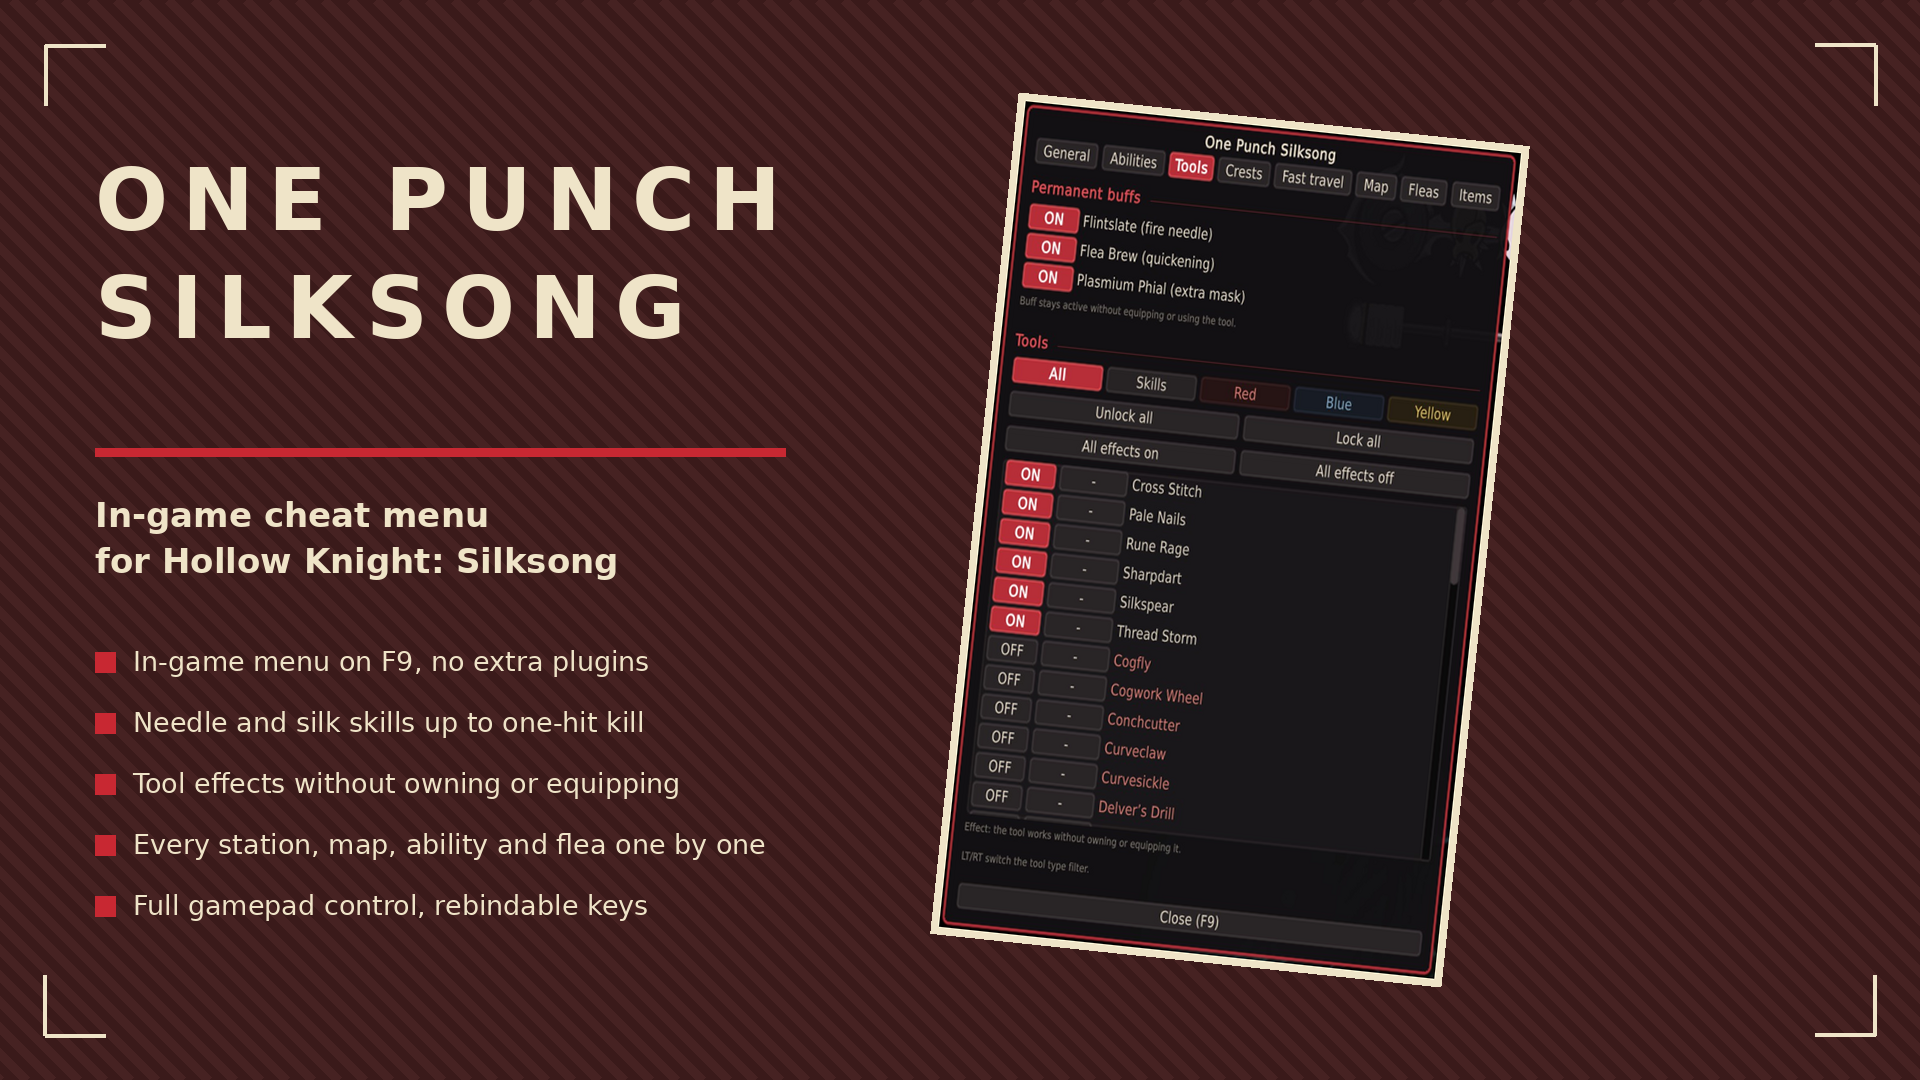
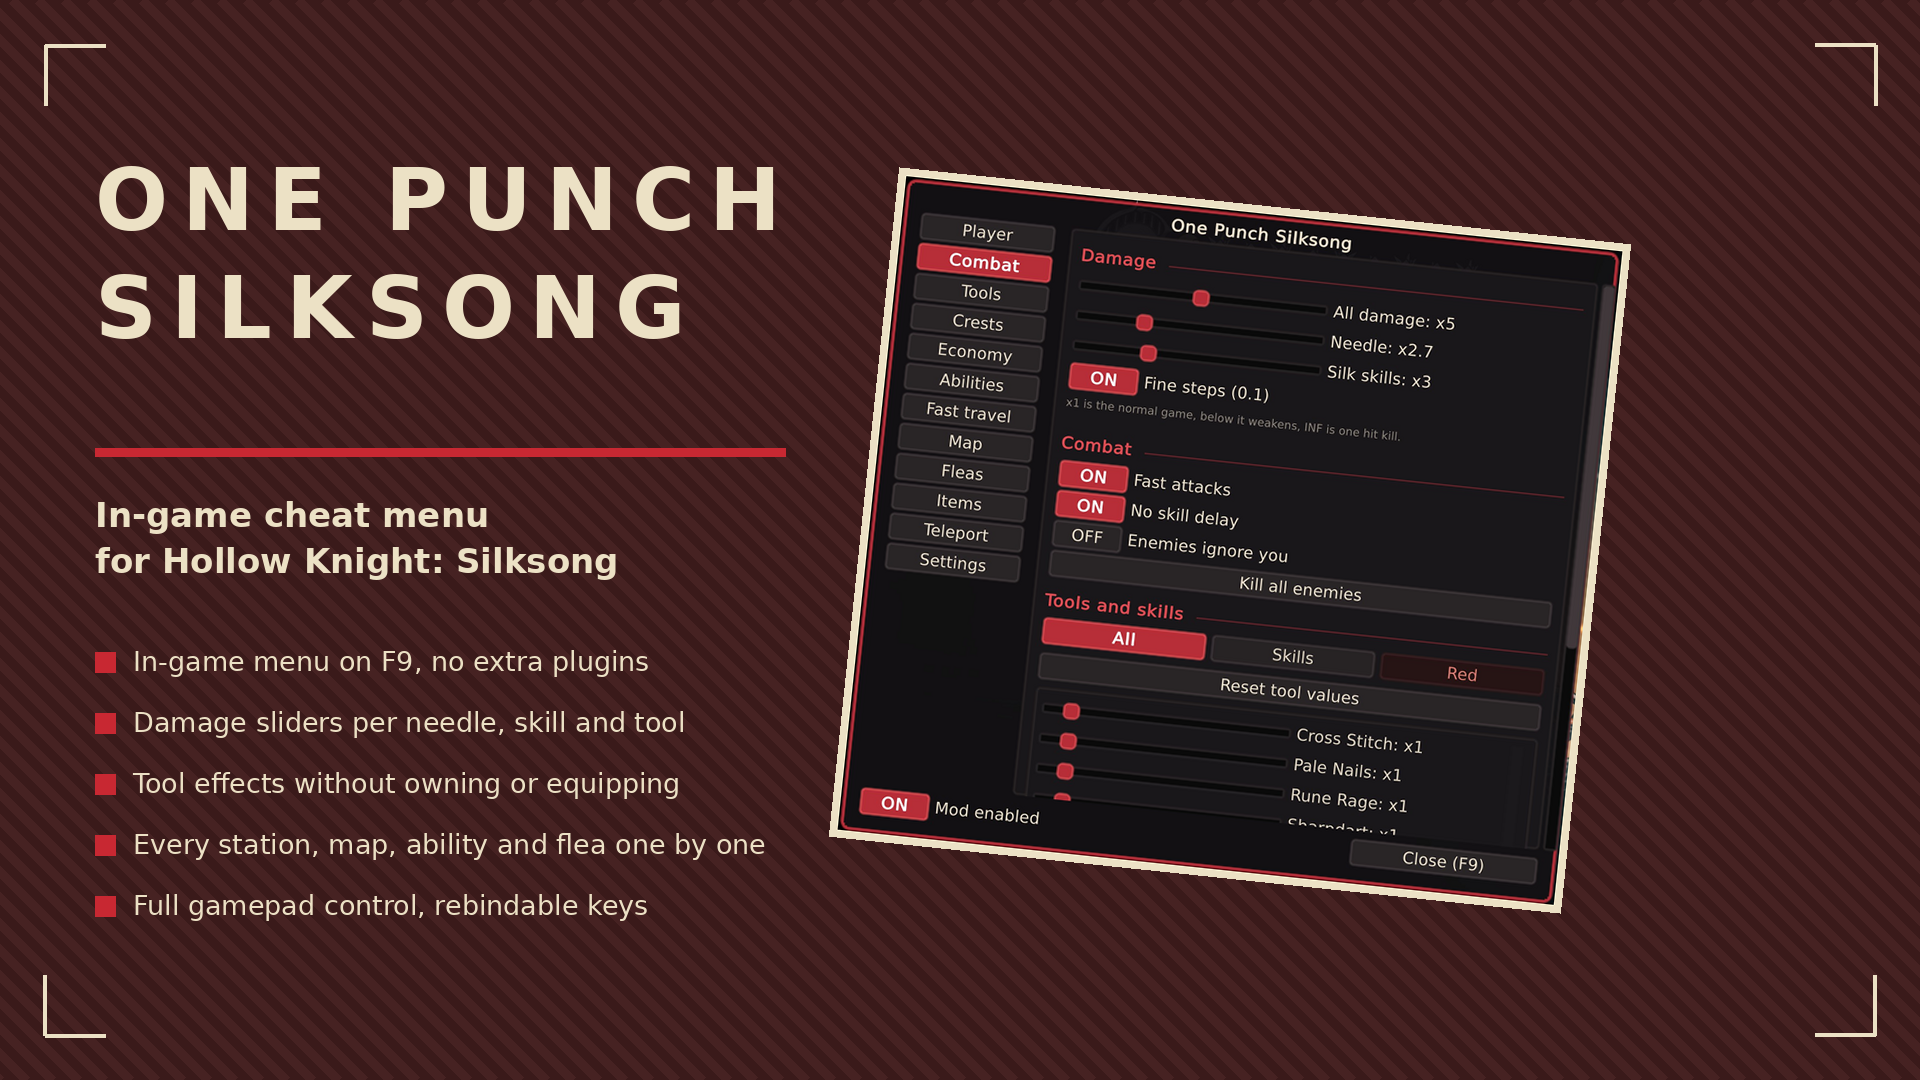
OnePunchSilksong 3.1.0: damage sliders per tool, tabs on the left

Changed region(s): [[0.4062, 0.0917, 0.875, 0.9167], [0.0938, 0.6417, 0.3438, 0.7028]]

diff --git a/Silksong/OnePunchSilksong/README.md b/Silksong/OnePunchSilksong/README.md
@@ -9,9 +9,10 @@ In-game cheat menu for Hollow Knight: Silksong. Press F9 (or L3+R3 on a gamepad)
 ## ✨ Features
 - In-game menu on F9, everything live
 - Full gamepad control, no mouse needed (see Controls below)
-- Damage up to one-hit kill: global, needle, silk skills, or per tool and skill
+- Damage sliders from x0.1 to x10 and one-hit kill, 0.1 steps: global, needle, silk skills, or per tool and skill
 - Fast attacks, no skill delay, infinite tool uses, extra tool slots
 - Tool effects without owning or equipping, one switch per tool
+- Tabs in a column on the left: Player, Combat, Tools, Crests, Economy, Abilities, Fast travel, Map, Fleas, Items, Teleport, Settings
 - Tool list with type sub-tabs (LT/RT) and color-coded names; crests in their own tab
 - Immortality, infinite jumps, dash & silk
 - Move speed, sprint speed and game speed sliders
@@ -33,17 +34,21 @@ In-game cheat menu for Hollow Knight: Silksong. Press F9 (or L3+R3 on a gamepad)
 | LB / RB | change tab |
 | Left / right | adjust sliders and cycle modes |
 
-Every key and the gamepad combo can be rebound in the menu itself ("Edit keys" in the General tab).
+Every key and the gamepad combo can be rebound in the menu itself (Settings tab).
 
 ## 📸 Screenshots
-![menu](screenshots/01-menu-v4.png)
-![abilities](screenshots/02-abilities-v4.png)
-![tools](screenshots/03-tools-v4.png)
-![crests](screenshots/04-crests-v4.png)
-![fast travel](screenshots/05-fasttravel-v4.png)
-![map](screenshots/06-map-v4.png)
-![fleas](screenshots/07-fleas-v4.png)
-![items](screenshots/08-items-v4.png)
+![player](screenshots/01-player-v5.png)
+![combat](screenshots/02-combat-v5.png)
+![tools](screenshots/03-tools-v5.png)
+![crests](screenshots/04-crests-v5.png)
+![economy](screenshots/05-economy-v5.png)
+![abilities](screenshots/06-abilities-v5.png)
+![fast travel](screenshots/07-fasttravel-v5.png)
+![map](screenshots/08-map-v5.png)
+![fleas](screenshots/09-fleas-v5.png)
+![items](screenshots/10-items-v5.png)
+![teleport](screenshots/11-teleport-v5.png)
+![settings](screenshots/12-settings-v5.png)
 
 ## 🌍 Translating
 Texts live in `I18n.cs`, one dictionary per language keyed by the English string. To add a
